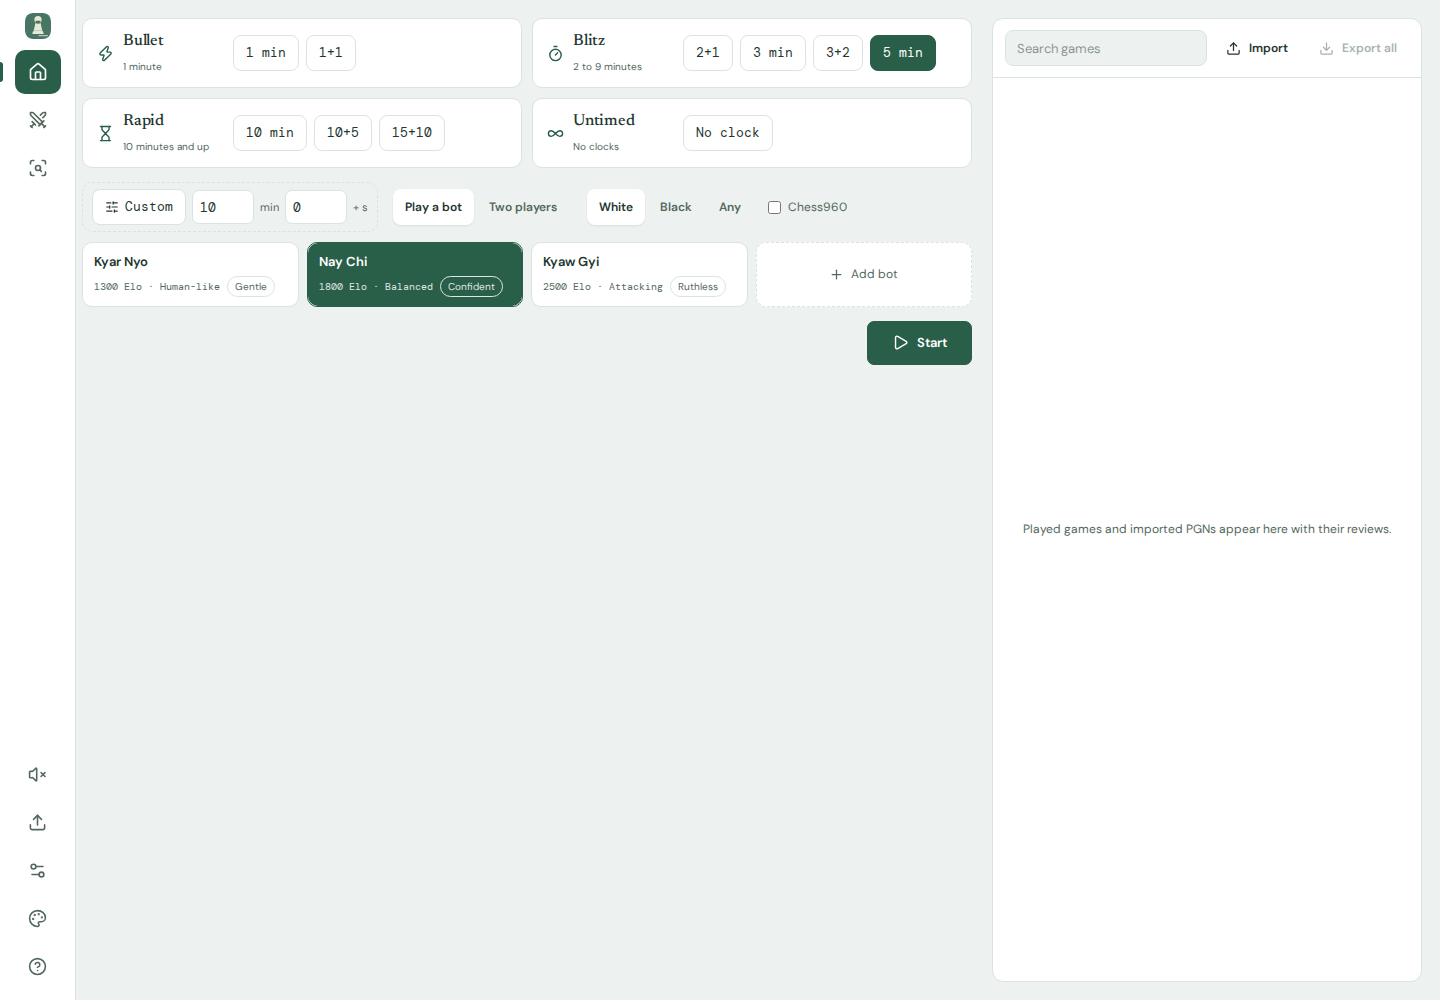
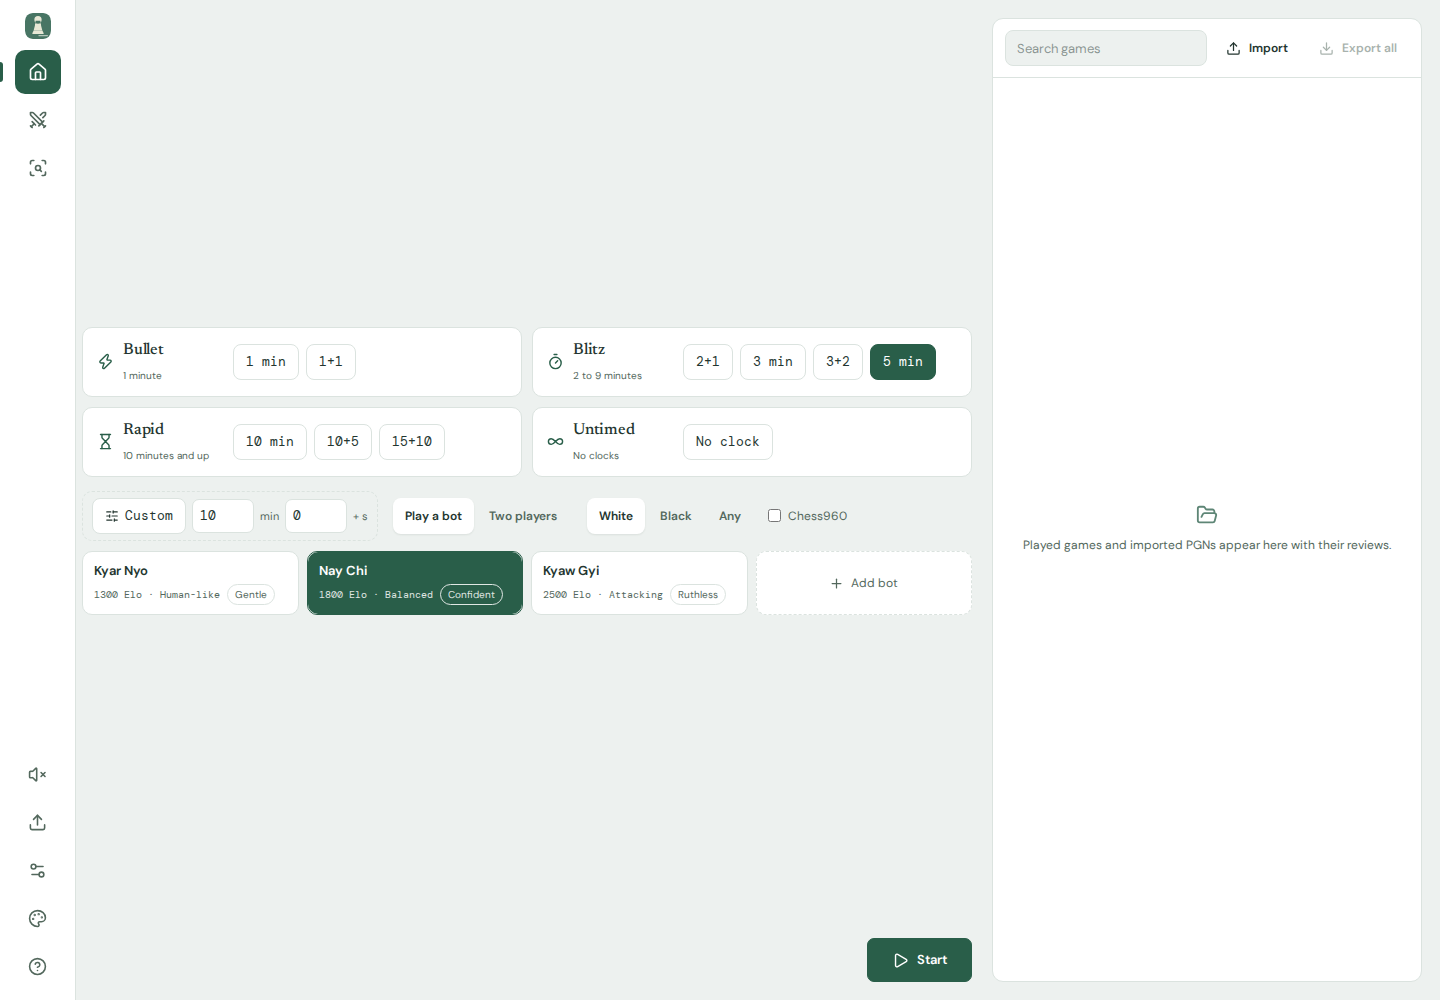
docs: record the second review pass and its screenshots
The record now carries what the full-size pass over the reviewed build found —
messages floating over controls, a landing column half empty, the other theme
never looked at — with the commit that fixes each and the two green runs behind
them. It also walks every screen of the app as it now stands, at both sizes, and
names what is not claimed: Chromium only, emulated phone, screenshots straight
from the audit's own attachments.

diff --git a/docs/verification.md b/docs/verification.md
@@ -795,9 +795,71 @@ Evidence for the fixes is the same audit run: `37110162975`, `37110401956`,
 on the pushed commit, each eight of eight jobs green. The final screenshots were
 re-captured from the reviewed build and replace the set in `docs/`.
 
+A second pass, over the screenshots of the reviewed build at full size rather
+than scaled down, found three more and fixed them too.
+
+- **A message never sits over a control, on either size.** The desktop notice
+  "Nay Chi · Blitz · 3 min" floated over the board's own control strip and took
+  taps away from it for three seconds: the first-move arrow could not be clicked
+  while it was up. Play and study now carry the message in the card that owns the
+  game's state, exactly as the phone's strip already does, and any floating
+  message is `pointer-events: none` besides, so a message can never intercept a
+  click again. Home keeps its floating message — there is no card to hold it —
+  and errors keep theirs everywhere (`cafd345`).
+- **The landing page fills its column.** The picker used only the top of the
+  column on a desktop, leaving some 400 px of dead page under Start while the
+  library panel beside it ran the full height; the picker fills the column now
+  and centres its own content in the room it has, so the dock keeps its place at
+  the panel's foot whatever the picker's height, and a window shorter than the
+  picker falls back to the top and scrolls rather than clipping a row. On a phone
+  the leftover room above the dock is split above and below the picker instead of
+  banding in one place, and the empty library shows the icon its centred state
+  was styled for (`14c2551`).
+- **The other theme is looked at too.** The audit grew a dark pass: Home, play
+  and study are captured with the dark theme on, so the screens the
+  accessibility suite proves by contrast are also checked by eye (`cafd345`).
+
+Evidence for the second pass: `37112963458` (both projects, with the dark pass)
+and `37113136593` (both projects), each eight of eight jobs green. The
+screenshots in `docs/` are from `37113136593`.
+
 One oddity is recorded rather than fixed: on a phone the play strip repeats the
 opponent's name that the header already shows, within the same 660 px frame. The
 strip's label and the clocks have to share one row, and the label is what says
 which game the controls belong to once the header is scrolled past on a taller
 screen; dropping the name would leave the time control with no owner. The
 duplication was judged the lesser cost and is left in place deliberately.
+
+### The reviewed screens, in order
+
+Every screen of the app as it now stands, and what the review found there.
+
+**Desktop, 1440×1000.** Home: the picker fills its column and centres its own
+content in it, the dock holds its place at the panel's foot, the library panel
+runs the full height beside it, and an untouched library shows the icon its
+centred state was made for. Play: the board is square and centred with both
+player rows, the evaluation bar, and the tool strip directly under the board;
+the side card opens with the state line, then the clock row, then the move list
+with its grade columns. Study/Review: the tabs, the walkthrough sentence, the
+analysis summary, the turning points and the move list all sit in one column
+with the board beside them; graded moves read as `+0.25` and `+0.22`, never as
+jargon. Dialogs: solid cards at full opacity, centred, with their footer on one
+row. Dark theme: the same three screens, with the theme's own surfaces and no
+control moved.
+
+**Phone, 390×664.** Home: four time controls in a 2×2, the custom row, the
+opponent picker, and the dock with "Your games" and a full-width Start pinned
+above the rail; the leftover room is split above and below the picker. Home's
+library: a bottom sheet with search, import and export, hugging its content.
+Play: the board fills the width under the header's player and clock, the strip
+carries the state line and the ply control, the rail sits under it. The game
+sheet: time controls, New game/Study/Hint, the move list with the current move
+filled, the ply count, and the four tools, the whole sheet no taller than what
+it holds. Study/Review: the sheet's tabs, the walkthrough, the turn points, the
+review budget and the move list, with the review's own summary visible above the
+rail. Dialogs: Add a bot and Engine settings are solid cards that clear the rail,
+with their footers whole. Dark theme: the same frames with the dark surfaces.
+
+**What is not claimed.** The dark pass is Chromium only. The phone frames remain
+390×664 Chromium emulation, not physical hardware. Screenshots are the audit's
+own attachments, so they show exactly the state the assertions ran against.
